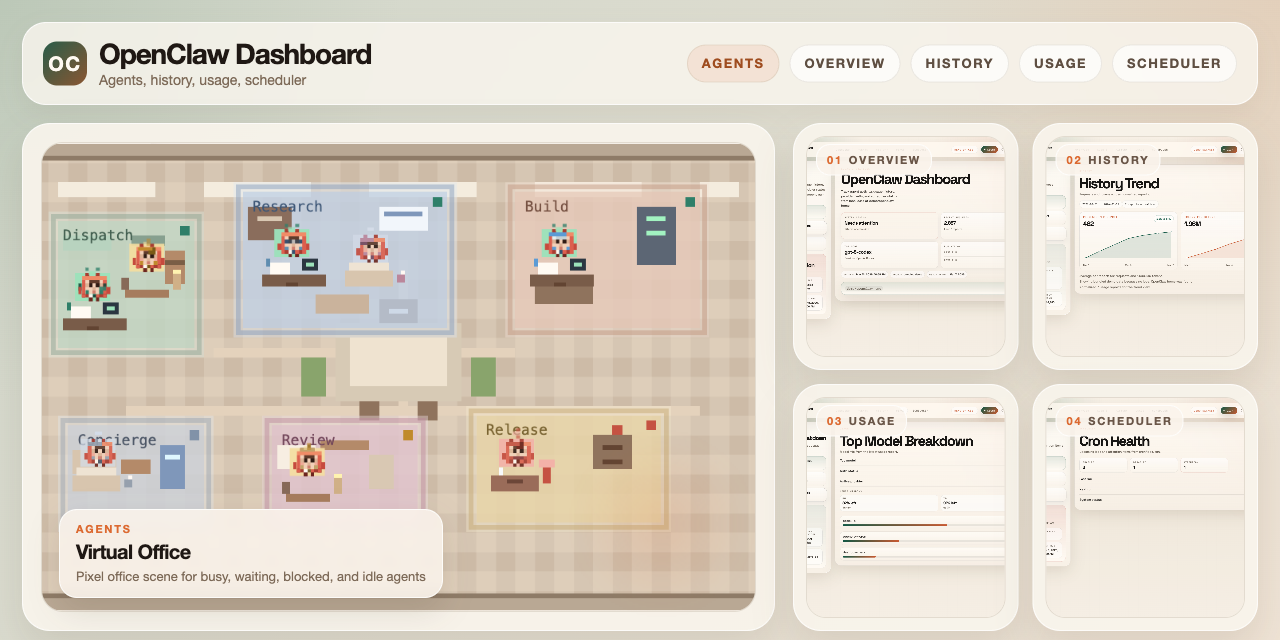
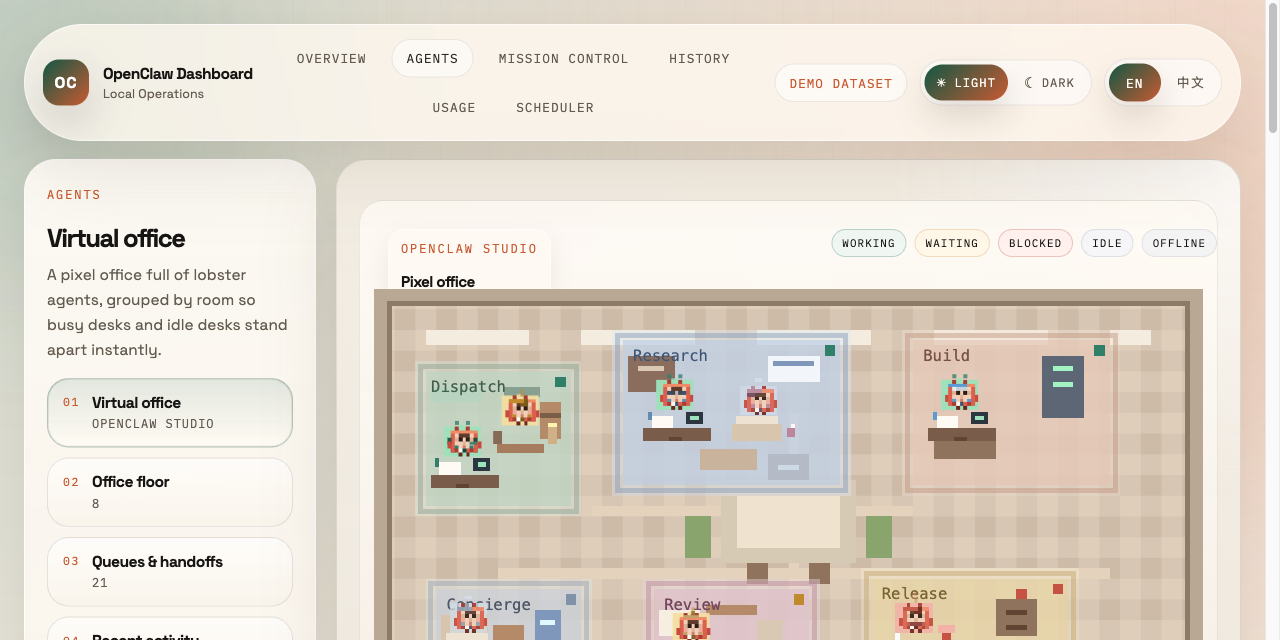
docs(readme): refresh 1.1.0 public release assets
(cherry picked from commit 7bb448a1dec54a0e7309164fe1ff4006a51f7537)

diff --git a/README.md b/README.md
@@ -2,7 +2,7 @@
 
 [English](README.md) | [简体中文](README.zh-CN.md)
 
-OpenClaw dashboard with dedicated Agents, Overview, History, Usage, and Scheduler workspaces.
+OpenClaw workstation with dedicated Agents, Mission Control, Overview, History, Usage, and Scheduler workspaces.
 
 <p align="center">
   <img src="./.github/assets/readme-demo.png" alt="OpenClaw Dashboard agents virtual office desktop preview" width="78%" />
@@ -11,6 +11,9 @@ OpenClaw dashboard with dedicated Agents, Overview, History, Usage, and Schedule
 
 ## Other Workspaces
 
+<p align="center">
+  <img src="./.github/assets/preview-mission-control.png" alt="OpenClaw Dashboard mission control workspace preview" width="100%" />
+</p>
 <p align="center">
   <img src="./.github/assets/preview-overview.png" alt="OpenClaw Dashboard overview workspace preview" width="49%" />
   <img src="./.github/assets/preview-history.png" alt="OpenClaw Dashboard history workspace preview" width="49%" />
@@ -23,8 +26,10 @@ OpenClaw dashboard with dedicated Agents, Overview, History, Usage, and Schedule
 ## Features
 
 - top-level dashboard shell with a primary menu, contextual left navigation, and single-panel rendering
-- dedicated `Agents` workspace with room-based navigation
+- dedicated `Agents` workspace with room-based navigation and live Mission Control join-up
 - `Virtual Office` pixel office scene for active, waiting, blocked, and idle agents
+- room-level mission ownership inside the office view, including inline mission queue cards that can focus the owning room
+- top-level `Mission Control` workspace for mission intake, queue progress, review pressure, and release readiness
 - `Office Floor`, `Queues & handoffs`, and `Recent activity` panels for simplified agent operations visibility
 - latest usage report summary
 - connected providers with auth/profile metadata, active highlighting, and reusable limit tiles
@@ -38,7 +43,7 @@ OpenClaw dashboard with dedicated Agents, Overview, History, Usage, and Schedule
 - automatic fallback to a bundled demo dataset for public previews and first-run setup
 - normalized usage history and trend charts across multiple reports
 
-The repo is intentionally broader than a single usage report skill. The goal is a proper OpenClaw dashboard that can grow into agent operations, channels, browser telemetry, delivery health, and host-level schedulers.
+The repo is intentionally broader than a single usage report skill. The goal is a proper OpenClaw workstation that can grow into agent operations, mission control, channels, browser telemetry, delivery health, and host-level schedulers.
 
 ## How it works
 
@@ -122,7 +127,8 @@ request.
 
 ## Current Surfaces
 
-- `Agents`: virtual office, office floor, queues and handoffs, recent activity
+- `Agents`: virtual office, room mission ownership, inline mission queue, office floor, queues and handoffs, recent activity
+- `Mission Control`: active missions, execution queue, review desk, release lane, and mission intake
 - `Overview`: latest summary cards and high-signal operational state
 - `History`: usage history trends and chart views
 - `Usage`: provider state, rolling limits, source share, and model breakdown
@@ -156,7 +162,7 @@ Do not commit:
 - real `~/.openclaw` snapshots unless you explicitly want them public
 
 The demo dataset under `demo/openclaw-home` is synthetic and safe to publish.
-The public screenshots in `.github/assets/readme-demo.png`, `.github/assets/readme-mobile.png`, and `.github/assets/social-preview.png` should always be generated from the bundled demo dataset.
+The public screenshots in `.github/assets/readme-demo.png`, `.github/assets/readme-mobile.png`, `.github/assets/preview-mission-control.png`, and `.github/assets/social-preview.png` should always be generated from the bundled demo dataset.
 
 ## Project Docs
 

diff --git a/README.zh-CN.md b/README.zh-CN.md
@@ -2,7 +2,7 @@
 
 [English](README.md) | [简体中文](README.zh-CN.md)
 
-一个面向 OpenClaw 的运维仪表盘，提供 Agents、概览、历史、用量和调度等独立工作区。
+一个面向 OpenClaw 的工作站应用，提供 Agents、Mission Control、概览、历史、用量和调度等独立工作区。
 
 <p align="center">
   <img src="./.github/assets/readme-demo.png" alt="OpenClaw Dashboard Agents 虚拟办公室桌面端预览" width="78%" />
@@ -11,6 +11,9 @@
 
 ## 其他页面预览
 
+<p align="center">
+  <img src="./.github/assets/preview-mission-control.png" alt="OpenClaw Dashboard Mission Control 页面预览" width="100%" />
+</p>
 <p align="center">
   <img src="./.github/assets/preview-overview.png" alt="OpenClaw Dashboard 概览页面预览" width="49%" />
   <img src="./.github/assets/preview-history.png" alt="OpenClaw Dashboard 历史页面预览" width="49%" />
@@ -23,8 +26,10 @@
 ## 功能特性
 
 - 顶部主菜单 + 左侧上下文导航 + 单面板渲染的 dashboard shell
-- 独立的 `Agents` 工作区和按房间组织的二级导航
+- 独立的 `Agents` 工作区，带按房间组织的二级导航和 Mission Control 联动
 - 用像素风 `Virtual Office` 直观展示 active / waiting / blocked / idle agents
+- 在办公室视图里直接展示房间级任务归属、内联 mission queue，以及点击任务卡后聚焦归属房间
+- 顶级 `Mission Control` 工作区，用于任务 intake、队列推进、评审压力和发布就绪状态
 - `Office Floor`、`Queues & handoffs`、`Recent activity` 三个补充面板，用于快速理解 agent 运转状态
 - 最新 usage 报告摘要
 - 已连接 providers 视图，包含 auth/profile 元数据、active 高亮和可复用的限额 tile
@@ -38,7 +43,7 @@
 - 面向公开预览和首次运行的内置 demo 数据自动回退
 - 基于多份报告归一化后的 usage 历史和趋势图
 
-这个仓库的目标不局限于单个 usage report skill，而是一个可以继续扩展到 agent 运维、channels、browser telemetry、delivery health 和 host-level schedulers 的完整 OpenClaw dashboard。
+这个仓库的目标不局限于单个 usage report skill，而是一个可以继续扩展到 agent 运维、Mission Control、channels、browser telemetry、delivery health 和 host-level schedulers 的完整 OpenClaw 工作站。
 
 ## 工作方式
 
@@ -115,7 +120,8 @@ pnpm check
 
 ## 当前页面
 
-- `Agents`：Virtual Office、Office Floor、Queues & handoffs、Recent activity
+- `Agents`：Virtual Office、房间级任务归属、内联 mission queue、Office Floor、Queues & handoffs、Recent activity
+- `Mission Control`：Active missions、Execution queue、Review desk、Release lane、Mission intake
 - `Overview`：最新摘要卡片和高优先级运行状态
 - `History`：usage 历史趋势和图表视图
 - `Usage`：provider 状态、滚动限额、来源占比和模型明细
@@ -149,7 +155,7 @@ pnpm check
 - 真实的 `~/.openclaw` 快照，除非你明确要公开
 
 `demo/openclaw-home` 下的 demo 数据是合成的，可以安全发布。  
-`.github/assets/readme-demo.png`、`.github/assets/readme-mobile.png` 和 `.github/assets/social-preview.png` 里的公开截图都应始终基于内置 demo 数据生成。
+`.github/assets/readme-demo.png`、`.github/assets/readme-mobile.png`、`.github/assets/preview-mission-control.png` 和 `.github/assets/social-preview.png` 里的公开截图都应始终基于内置 demo 数据生成。
 
 ## 项目文档
 
